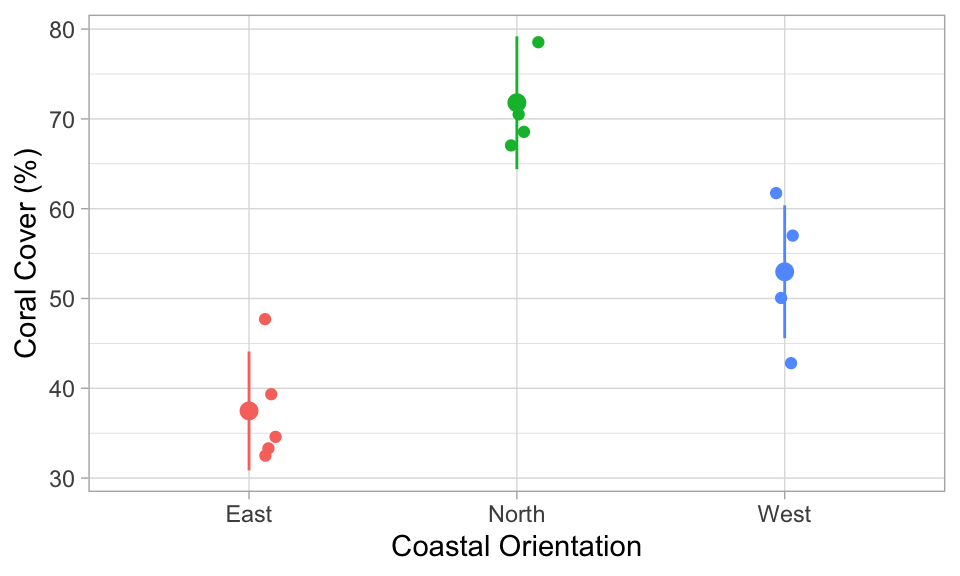
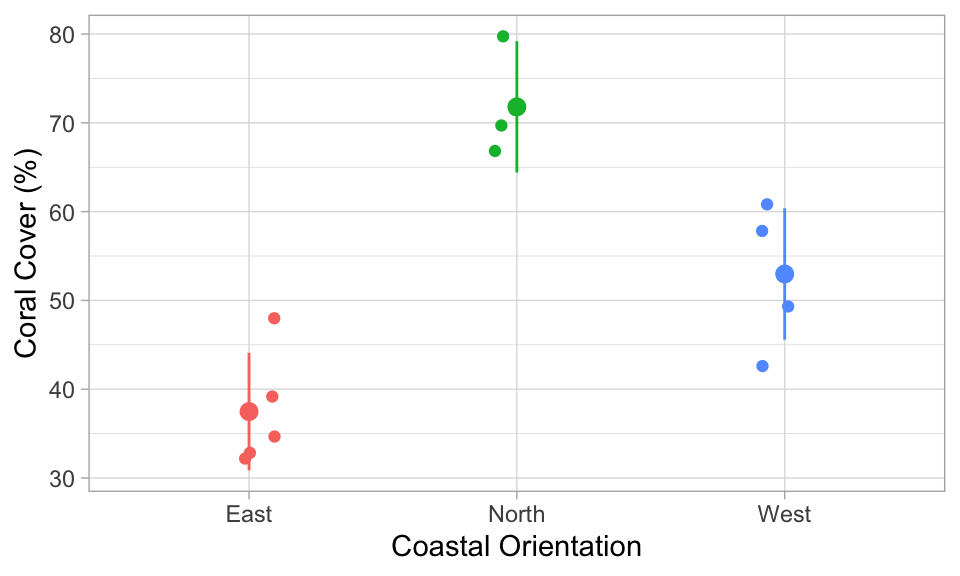
Built site for gh-pages

diff --git a/index.html b/index.html
@@ -156,23 +156,23 @@ ul.task-list li input[type="checkbox"] {
 
 <div class="cell">
 <div class="cell-output-display">
-<div id="funwuyzmqv" style="padding-left:0px;padding-right:0px;padding-top:10px;padding-bottom:10px;overflow-x:auto;overflow-y:auto;width:auto;height:auto;">
-<style>#funwuyzmqv table {
+<div id="jwowjxuwcm" style="padding-left:0px;padding-right:0px;padding-top:10px;padding-bottom:10px;overflow-x:auto;overflow-y:auto;width:auto;height:auto;">
+<style>#jwowjxuwcm table {
   font-family: system-ui, 'Segoe UI', Roboto, Helvetica, Arial, sans-serif, 'Apple Color Emoji', 'Segoe UI Emoji', 'Segoe UI Symbol', 'Noto Color Emoji';
   -webkit-font-smoothing: antialiased;
   -moz-osx-font-smoothing: grayscale;
 }
 
-#funwuyzmqv thead, #funwuyzmqv tbody, #funwuyzmqv tfoot, #funwuyzmqv tr, #funwuyzmqv td, #funwuyzmqv th {
+#jwowjxuwcm thead, #jwowjxuwcm tbody, #jwowjxuwcm tfoot, #jwowjxuwcm tr, #jwowjxuwcm td, #jwowjxuwcm th {
   border-style: none;
 }
 
-#funwuyzmqv p {
+#jwowjxuwcm p {
   margin: 0;
   padding: 0;
 }
 
-#funwuyzmqv .gt_table {
+#jwowjxuwcm .gt_table {
   display: table;
   border-collapse: collapse;
   line-height: normal;
@@ -198,12 +198,12 @@ ul.task-list li input[type="checkbox"] {
   border-left-color: #D3D3D3;
 }
 
-#funwuyzmqv .gt_caption {
+#jwowjxuwcm .gt_caption {
   padding-top: 4px;
   padding-bottom: 4px;
 }
 
-#funwuyzmqv .gt_title {
+#jwowjxuwcm .gt_title {
   color: #333333;
   font-size: 125%;
   font-weight: initial;
@@ -215,7 +215,7 @@ ul.task-list li input[type="checkbox"] {
   border-bottom-width: 0;
 }
 
-#funwuyzmqv .gt_subtitle {
+#jwowjxuwcm .gt_subtitle {
   color: #333333;
   font-size: 85%;
   font-weight: initial;
@@ -227,7 +227,7 @@ ul.task-list li input[type="checkbox"] {
   border-top-width: 0;
 }
 
-#funwuyzmqv .gt_heading {
+#jwowjxuwcm .gt_heading {
   background-color: #FFFFFF;
   text-align: center;
   border-bottom-color: #FFFFFF;
@@ -239,13 +239,13 @@ ul.task-list li input[type="checkbox"] {
   border-right-color: #D3D3D3;
 }
 
-#funwuyzmqv .gt_bottom_border {
+#jwowjxuwcm .gt_bottom_border {
   border-bottom-style: solid;
   border-bottom-width: 2px;
   border-bottom-color: #D3D3D3;
 }
 
-#funwuyzmqv .gt_col_headings {
+#jwowjxuwcm .gt_col_headings {
   border-top-style: solid;
   border-top-width: 2px;
   border-top-color: #D3D3D3;
@@ -260,7 +260,7 @@ ul.task-list li input[type="checkbox"] {
   border-right-color: #D3D3D3;
 }
 
-#funwuyzmqv .gt_col_heading {
+#jwowjxuwcm .gt_col_heading {
   color: #333333;
   background-color: #FFFFFF;
   font-size: 100%;
@@ -280,7 +280,7 @@ ul.task-list li input[type="checkbox"] {
   overflow-x: hidden;
 }
 
-#funwuyzmqv .gt_column_spanner_outer {
+#jwowjxuwcm .gt_column_spanner_outer {
   color: #333333;
   background-color: #FFFFFF;
   font-size: 100%;
@@ -292,15 +292,15 @@ ul.task-list li input[type="checkbox"] {
   padding-right: 4px;
 }
 
-#funwuyzmqv .gt_column_spanner_outer:first-child {
+#jwowjxuwcm .gt_column_spanner_outer:first-child {
   padding-left: 0;
 }
 
-#funwuyzmqv .gt_column_spanner_outer:last-child {
+#jwowjxuwcm .gt_column_spanner_outer:last-child {
   padding-right: 0;
 }
 
-#funwuyzmqv .gt_column_spanner {
+#jwowjxuwcm .gt_column_spanner {
   border-bottom-style: solid;
   border-bottom-width: 2px;
   border-bottom-color: #D3D3D3;
@@ -312,11 +312,11 @@ ul.task-list li input[type="checkbox"] {
   width: 100%;
 }
 
-#funwuyzmqv .gt_spanner_row {
+#jwowjxuwcm .gt_spanner_row {
   border-bottom-style: hidden;
 }
 
-#funwuyzmqv .gt_group_heading {
+#jwowjxuwcm .gt_group_heading {
   padding-top: 8px;
   padding-bottom: 8px;
   padding-left: 5px;
@@ -342,7 +342,7 @@ ul.task-list li input[type="checkbox"] {
   text-align: left;
 }
 
-#funwuyzmqv .gt_empty_group_heading {
+#jwowjxuwcm .gt_empty_group_heading {
   padding: 0.5px;
   color: #333333;
   background-color: #FFFFFF;
@@ -357,15 +357,15 @@ ul.task-list li input[type="checkbox"] {
   vertical-align: middle;
 }
 
-#funwuyzmqv .gt_from_md > :first-child {
+#jwowjxuwcm .gt_from_md > :first-child {
   margin-top: 0;
 }
 
-#funwuyzmqv .gt_from_md > :last-child {
+#jwowjxuwcm .gt_from_md > :last-child {
   margin-bottom: 0;
 }
 
-#funwuyzmqv .gt_row {
+#jwowjxuwcm .gt_row {
   padding-top: 8px;
   padding-bottom: 8px;
   padding-left: 5px;
@@ -384,7 +384,7 @@ ul.task-list li input[type="checkbox"] {
   overflow-x: hidden;
 }
 
-#funwuyzmqv .gt_stub {
+#jwowjxuwcm .gt_stub {
   color: #333333;
   background-color: #FFFFFF;
   font-size: 100%;
@@ -397,7 +397,7 @@ ul.task-list li input[type="checkbox"] {
   padding-right: 5px;
 }
 
-#funwuyzmqv .gt_stub_row_group {
+#jwowjxuwcm .gt_stub_row_group {
   color: #333333;
   background-color: #FFFFFF;
   font-size: 100%;
@@ -411,15 +411,15 @@ ul.task-list li input[type="checkbox"] {
   vertical-align: top;
 }
 
-#funwuyzmqv .gt_row_group_first td {
+#jwowjxuwcm .gt_row_group_first td {
   border-top-width: 2px;
 }
 
-#funwuyzmqv .gt_row_group_first th {
+#jwowjxuwcm .gt_row_group_first th {
   border-top-width: 2px;
 }
 
-#funwuyzmqv .gt_summary_row {
+#jwowjxuwcm .gt_summary_row {
   color: #333333;
   background-color: #FFFFFF;
   text-transform: inherit;
@@ -429,16 +429,16 @@ ul.task-list li input[type="checkbox"] {
   padding-right: 5px;
 }
 
-#funwuyzmqv .gt_first_summary_row {
+#jwowjxuwcm .gt_first_summary_row {
   border-top-style: solid;
   border-top-color: #D3D3D3;
 }
 
-#funwuyzmqv .gt_first_summary_row.thick {
+#jwowjxuwcm .gt_first_summary_row.thick {
   border-top-width: 2px;
 }
 
-#funwuyzmqv .gt_last_summary_row {
+#jwowjxuwcm .gt_last_summary_row {
   padding-top: 8px;
   padding-bottom: 8px;
   padding-left: 5px;
@@ -448,7 +448,7 @@ ul.task-list li input[type="checkbox"] {
   border-bottom-color: #D3D3D3;
 }
 
-#funwuyzmqv .gt_grand_summary_row {
+#jwowjxuwcm .gt_grand_summary_row {
   color: #333333;
   background-color: #FFFFFF;
   text-transform: inherit;
@@ -458,7 +458,7 @@ ul.task-list li input[type="checkbox"] {
   padding-right: 5px;
 }
 
-#funwuyzmqv .gt_first_grand_summary_row {
+#jwowjxuwcm .gt_first_grand_summary_row {
   padding-top: 8px;
   padding-bottom: 8px;
   padding-left: 5px;
@@ -468,7 +468,7 @@ ul.task-list li input[type="checkbox"] {
   border-top-color: #D3D3D3;
 }
 
-#funwuyzmqv .gt_last_grand_summary_row_top {
+#jwowjxuwcm .gt_last_grand_summary_row_top {
   padding-top: 8px;
   padding-bottom: 8px;
   padding-left: 5px;
@@ -478,11 +478,11 @@ ul.task-list li input[type="checkbox"] {
   border-bottom-color: #D3D3D3;
 }
 
-#funwuyzmqv .gt_striped {
+#jwowjxuwcm .gt_striped {
   background-color: rgba(128, 128, 128, 0.05);
 }
 
-#funwuyzmqv .gt_table_body {
+#jwowjxuwcm .gt_table_body {
   border-top-style: solid;
   border-top-width: 2px;
   border-top-color: #D3D3D3;
@@ -491,7 +491,7 @@ ul.task-list li input[type="checkbox"] {
   border-bottom-color: #D3D3D3;
 }
 
-#funwuyzmqv .gt_footnotes {
+#jwowjxuwcm .gt_footnotes {
   color: #333333;
   background-color: #FFFFFF;
   border-bottom-style: none;
@@ -505,7 +505,7 @@ ul.task-list li input[type="checkbox"] {
   border-right-color: #D3D3D3;
 }
 
-#funwuyzmqv .gt_footnote {
+#jwowjxuwcm .gt_footnote {
   margin: 0px;
   font-size: 90%;
   padding-top: 4px;
@@ -514,7 +514,7 @@ ul.task-list li input[type="checkbox"] {
   padding-right: 5px;
 }
 
-#funwuyzmqv .gt_sourcenotes {
+#jwowjxuwcm .gt_sourcenotes {
   color: #333333;
   background-color: #FFFFFF;
   border-bottom-style: none;
@@ -528,7 +528,7 @@ ul.task-list li input[type="checkbox"] {
   border-right-color: #D3D3D3;
 }
 
-#funwuyzmqv .gt_sourcenote {
+#jwowjxuwcm .gt_sourcenote {
   font-size: 90%;
   padding-top: 4px;
   padding-bottom: 4px;
@@ -536,72 +536,72 @@ ul.task-list li input[type="checkbox"] {
   padding-right: 5px;
 }
 
-#funwuyzmqv .gt_left {
+#jwowjxuwcm .gt_left {
   text-align: left;
 }
 
-#funwuyzmqv .gt_center {
+#jwowjxuwcm .gt_center {
   text-align: center;
 }
 
-#funwuyzmqv .gt_right {
+#jwowjxuwcm .gt_right {
   text-align: right;
   font-variant-numeric: tabular-nums;
 }
 
-#funwuyzmqv .gt_font_normal {
+#jwowjxuwcm .gt_font_normal {
   font-weight: normal;
 }
 
-#funwuyzmqv .gt_font_bold {
+#jwowjxuwcm .gt_font_bold {
   font-weight: bold;
 }
 
-#funwuyzmqv .gt_font_italic {
+#jwowjxuwcm .gt_font_italic {
   font-style: italic;
 }
 
-#funwuyzmqv .gt_super {
+#jwowjxuwcm .gt_super {
   font-size: 65%;
 }
 
-#funwuyzmqv .gt_footnote_marks {
+#jwowjxuwcm .gt_footnote_marks {
   font-size: 75%;
   vertical-align: 0.4em;
   position: initial;
 }
 
-#funwuyzmqv .gt_asterisk {
+#jwowjxuwcm .gt_asterisk {
   font-size: 100%;
   vertical-align: 0;
 }
 
-#funwuyzmqv .gt_indent_1 {
+#jwowjxuwcm .gt_indent_1 {
   text-indent: 5px;
 }
 
-#funwuyzmqv .gt_indent_2 {
+#jwowjxuwcm .gt_indent_2 {
   text-indent: 10px;
 }
 
-#funwuyzmqv .gt_indent_3 {
+#jwowjxuwcm .gt_indent_3 {
   text-indent: 15px;
 }
 
-#funwuyzmqv .gt_indent_4 {
+#jwowjxuwcm .gt_indent_4 {
   text-indent: 20px;
 }
 
-#funwuyzmqv .gt_indent_5 {
+#jwowjxuwcm .gt_indent_5 {
   text-indent: 25px;
 }
 
-#funwuyzmqv .katex-display {
+#jwowjxuwcm .katex-display {
   display: inline-flex !important;
   margin-bottom: 0.75em !important;
 }
 
-#funwuyzmqv div.Reactable > div.rt-table > div.rt-thead > div.rt-tr.rt-tr-group-header > div.rt-th-group:after {
+#jwowjxuwcm div.Reactable > div.rt-table > div.rt-thead > div.rt-tr.rt-tr-group-header > div.rt-th-group:after {
   height: 0px !important;
 }
 </style>
@@ -648,7 +648,7 @@ ul.task-list li input[type="checkbox"] {
 <td class="gt_row gt_left" headers="sujet" style="border-right-width: 1px; border-right-style: solid; border-right-color: #D3D3D3"><strong>Modèles Statistiques:</strong> Regression, ANOVA</td>
 <td class="gt_row gt_center" headers="slides" style="border-right-width: 1px; border-right-style: solid; border-right-color: #D3D3D3"><a href="lectures/output/03/03_lecture.html" target="_blank">🖥 03</a></td>
 <td class="gt_row gt_center" headers="TP" style="border-right-width: 1px; border-right-style: solid; border-right-color: #D3D3D3"><a href="https://posit.cloud/spaces/728718/content/11932690" target="_blank">📝 03</a></td>
-<td class="gt_row gt_center" headers="aide" style="border-right-width: 1px; border-right-style: solid; border-right-color: #D3D3D3"><a href="./hints/hints_03/hints_03.html">❓02</a></td>
+<td class="gt_row gt_center" headers="aide" style="border-right-width: 1px; border-right-style: solid; border-right-color: #D3D3D3"><a href="./hints/hints_03/hints_03.html">❓03</a></td>
 </tr>
 <tr class="even">
 <td class="gt_row gt_center gt_striped" headers="session" style="border-right-width: 1px; border-right-style: solid; border-right-color: #D3D3D3">4</td>
